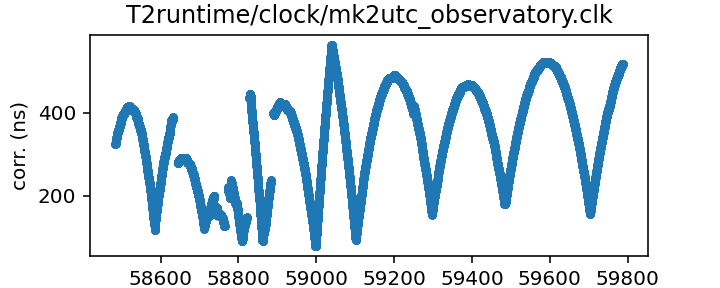
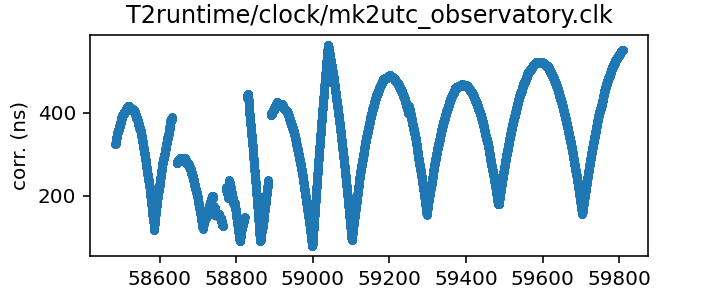
Routine gh-pages update from Github action Mon Aug 29 20:35:53 UTC 2022

diff --git a/status.md b/status.md
@@ -13,17 +13,17 @@ name of each clock file links to a page with more details.
 
 | Name | File | Corrections start | Corrections end | Last check date | Last check result 
 |:--- |:--- | --- | --- | --- |:--- 
-| [GPS to UTC](T2runtime/clock/gps2utc.clk.html) | `T2runtime/clock/gps2utc.clk` | 1993-01-01 MJD 48988.0 | 2022-06-29 MJD 59759.0 | 2022-08-28 | **Validation failed** 
-| [GPS to UTC (Combined Clock)](T2runtime/clock/gps2utc_cc.clk.html) | `T2runtime/clock/gps2utc_cc.clk` | 1993-01-01 MJD 48988.0 | 2022-07-29 MJD 59789.0 | 2022-08-28 | Unchanged 
-| [GPS to UTC (Corrected)](T2runtime/clock/gps2utc_c0p.clk.html) | `T2runtime/clock/gps2utc_c0p.clk` | 2010-12-29 MJD 55559.0 | 2022-06-29 MJD 59759.0 | 2022-08-28 | **Validation failed** 
-| [GBT](tempo/clock/time_gbt.dat.html) | `tempo/clock/time_gbt.dat` | 2000-12-31 MJD 51909.5 | 2022-07-31 MJD 59791.5 | 2022-08-28 | **Validation failed** 
+| [GPS to UTC](T2runtime/clock/gps2utc.clk.html) | `T2runtime/clock/gps2utc.clk` | 1993-01-01 MJD 48988.0 | 2022-06-29 MJD 59759.0 | 2022-08-29 | **Validation failed** 
+| [GPS to UTC (Combined Clock)](T2runtime/clock/gps2utc_cc.clk.html) | `T2runtime/clock/gps2utc_cc.clk` | 1993-01-01 MJD 48988.0 | 2022-07-29 MJD 59789.0 | 2022-08-29 | Unchanged 
+| [GPS to UTC (Corrected)](T2runtime/clock/gps2utc_c0p.clk.html) | `T2runtime/clock/gps2utc_c0p.clk` | 2010-12-29 MJD 55559.0 | 2022-06-29 MJD 59759.0 | 2022-08-29 | **Validation failed** 
+| [GBT](tempo/clock/time_gbt.dat.html) | `tempo/clock/time_gbt.dat` | 2000-12-31 MJD 51909.5 | 2022-07-31 MJD 59791.5 | 2022-08-29 | **Validation failed** 
 | [GBT (TEMPO2 converted from TEMPO)](T2runtime/clock/gbt2gps.clk.html) | `T2runtime/clock/gbt2gps.clk` | 2000-12-31 MJD 51909.5 | 2022-07-31 MJD 59791.5 | 2022-08-01 | Updated 
 | [Jodrell Bank](T2runtime/clock/jb2gps.clk.html) | `T2runtime/clock/jb2gps.clk` | 2006-10-13 MJD 54021.4 | 2021-11-03 MJD 59521.0 | 2022-08-24 | Unchanged 
 | [Jodrell Bank Roach](T2runtime/clock/jbroach2jb.clk.html) | `T2runtime/clock/jbroach2jb.clk` | 2006-10-13 MJD 54021.4 | 2018-03-20 MJD 58197.6 | 2022-08-24 | Unchanged 
 | [Jodrell Bank DFB](T2runtime/clock/jbdfb2jb.clk.html) | `T2runtime/clock/jbdfb2jb.clk` | 2006-10-13 MJD 54021.4 | 2017-05-11 MJD 57884.0 | 2022-08-24 | Unchanged 
-| [Meerkat (observatory)](T2runtime/clock/mk2utc_observatory.clk.html) | `T2runtime/clock/mk2utc_observatory.clk` | 2019-01-01 MJD 58484.0 | 2022-07-26 MJD 59787.0 | 2022-08-22 | Unchanged 
-| [Leap seconds](tempo/clock/leap.sec.html) | `tempo/clock/leap.sec` | 1972-07-01 MJD 41499.0 | 2017-01-01 MJD 57754.0 | 2022-08-28 | Unchanged 
-| [UT1 table](tempo/clock/ut1.dat.html) | `tempo/clock/ut1.dat` | 1973-01-02 MJD 41684.0 | 2023-09-02 MJD 60189.0 | 2022-08-28 | Unchanged 
+| [Meerkat (observatory)](T2runtime/clock/mk2utc_observatory.clk.html) | `T2runtime/clock/mk2utc_observatory.clk` | 2019-01-01 MJD 58484.0 | 2022-08-17 MJD 59809.0 | 2022-08-29 | Updated 
+| [Leap seconds](tempo/clock/leap.sec.html) | `tempo/clock/leap.sec` | 1972-07-01 MJD 41499.0 | 2017-01-01 MJD 57754.0 | 2022-08-29 | Unchanged 
+| [UT1 table](tempo/clock/ut1.dat.html) | `tempo/clock/ut1.dat` | 1973-01-02 MJD 41684.0 | 2023-09-02 MJD 60189.0 | 2022-08-29 | Unchanged 
 
 
 
@@ -64,7 +64,7 @@ name of each clock file links to a page with more details.
 | Name | File | Corrections start | Corrections end | Last check date | Last check result 
 |:--- |:--- | --- | --- | --- |:--- 
 | [GPS to UTC (TEMPO2)](T2runtime/clock/gps2utc_tempo2.clk.html) | `T2runtime/clock/gps2utc_tempo2.clk` | 1996-03-27 MJD 50169.0 | 2020-10-27 MJD 59149.0 | 2022-08-25 | Unchanged 
-| [GBT (TEMPO2)](T2runtime/clock/gbt2gps_tempo2.clk.html) | `T2runtime/clock/gbt2gps_tempo2.clk` | 2000-12-31 MJD 51909.5 | 2020-02-25 MJD 58904.5 | 2022-08-22 | Unchanged 
+| [GBT (TEMPO2)](T2runtime/clock/gbt2gps_tempo2.clk.html) | `T2runtime/clock/gbt2gps_tempo2.clk` | 2000-12-31 MJD 51909.5 | 2020-02-25 MJD 58904.5 | 2022-08-29 | Unchanged 
 | [Jodrell Bank (TEMPO)](tempo/clock/time_jb.dat.html) | `tempo/clock/time_jb.dat` | 2006-10-13 MJD 54021.4 | 2019-05-13 MJD 58616.2 | 2022-08-25 | Unchanged 
 | [VLA](tempo/clock/time_vla.dat.html) | `tempo/clock/time_vla.dat` | 1990-10-27 MJD 48191.2 | 2021-03-07 MJD 59280.5 | 2022-08-25 | **Failed to download** 
 | [VLA (TEMPO2)](T2runtime/clock/vla2gps.clk.html) | `T2runtime/clock/vla2gps.clk` | 2015-02-01 MJD 57054.6 | 2021-03-07 MJD 59280.5 | 2022-08-24 | Unchanged 

diff --git a/T2runtime/clock/gps2utc_c0p.clk.md b/T2runtime/clock/gps2utc_c0p.clk.md
@@ -30,12 +30,11 @@ about the BIPM's published corrections, contact <tai@bipm.org>.
 | Clock file start | 2010-12-29 MJD 55559.0 |
 | Clock file end | 2022-06-29 MJD 59759.0 |
 | Update interval (days) | 1 |
-| Last update attempt | 2022-08-28 |
+| Last update attempt | 2022-08-29 |
 | Last update result | Validation failed |
 
 Log entries from the last few update attempts:
 ```
-2022-08-19 20:35:01.749 - Validation failed: New version of T2runtime/clock/gps2utc_c0p.clk clock corrections differ from old version where they overlap in 1 places
 2022-08-20 20:33:20.418 - Validation failed: New version of T2runtime/clock/gps2utc_c0p.clk clock corrections differ from old version where they overlap in 1 places
 2022-08-21 20:33:33.504 - Validation failed: New version of T2runtime/clock/gps2utc_c0p.clk clock corrections differ from old version where they overlap in 1 places
 2022-08-22 20:33:34.014 - Validation failed: New version of T2runtime/clock/gps2utc_c0p.clk clock corrections differ from old version where they overlap in 1 places
@@ -45,6 +44,7 @@ Log entries from the last few update attempts:
 2022-08-26 20:34:36.950 - Validation failed: New version of T2runtime/clock/gps2utc_c0p.clk clock corrections differ from old version where they overlap in 1 places
 2022-08-27 20:33:44.136 - Validation failed: New version of T2runtime/clock/gps2utc_c0p.clk clock corrections differ from old version where they overlap in 1 places
 2022-08-28 20:34:12.081 - Validation failed: New version of T2runtime/clock/gps2utc_c0p.clk clock corrections differ from old version where they overlap in 1 places
+2022-08-29 20:35:23.143 - Validation failed: New version of T2runtime/clock/gps2utc_c0p.clk clock corrections differ from old version where they overlap in 1 places
 ```
 [Full log](https://raw.githubusercontent.com/ipta/pulsar-clock-corrections/main/log/T2runtime/clock/gps2utc_c0p.clk.log)
 

diff --git a/T2runtime/clock/gps2utc.clk.md b/T2runtime/clock/gps2utc.clk.md
@@ -32,12 +32,11 @@ about the BIPM's published corrections, contact <tai@bipm.org>.
 | Clock file start | 1993-01-01 MJD 48988.0 |
 | Clock file end | 2022-06-29 MJD 59759.0 |
 | Update interval (days) | 1 |
-| Last update attempt | 2022-08-28 |
+| Last update attempt | 2022-08-29 |
 | Last update result | Validation failed |
 
 Log entries from the last few update attempts:
 ```
-2022-08-19 20:35:01.671 - Validation failed: New version of T2runtime/clock/gps2utc.clk clock corrections differ from old version where they overlap in 1 places
 2022-08-20 20:33:20.357 - Validation failed: New version of T2runtime/clock/gps2utc.clk clock corrections differ from old version where they overlap in 1 places
 2022-08-21 20:33:33.441 - Validation failed: New version of T2runtime/clock/gps2utc.clk clock corrections differ from old version where they overlap in 1 places
 2022-08-22 20:33:33.953 - Validation failed: New version of T2runtime/clock/gps2utc.clk clock corrections differ from old version where they overlap in 1 places
@@ -47,6 +46,7 @@ Log entries from the last few update attempts:
 2022-08-26 20:34:36.865 - Validation failed: New version of T2runtime/clock/gps2utc.clk clock corrections differ from old version where they overlap in 1 places
 2022-08-27 20:33:44.075 - Validation failed: New version of T2runtime/clock/gps2utc.clk clock corrections differ from old version where they overlap in 1 places
 2022-08-28 20:34:12.018 - Validation failed: New version of T2runtime/clock/gps2utc.clk clock corrections differ from old version where they overlap in 1 places
+2022-08-29 20:35:23.082 - Validation failed: New version of T2runtime/clock/gps2utc.clk clock corrections differ from old version where they overlap in 1 places
 ```
 [Full log](https://raw.githubusercontent.com/ipta/pulsar-clock-corrections/main/log/T2runtime/clock/gps2utc.clk.log)
 

diff --git a/tempo/clock/time_gbt.dat.md b/tempo/clock/time_gbt.dat.md
@@ -20,12 +20,11 @@ If questions arise, contact Ryan S. Lynch <rlynch@nrao.edu>.
 | Clock file start | 2000-12-31 MJD 51909.5 |
 | Clock file end | 2022-07-31 MJD 59791.5 |
 | Update interval (days) | 1 |
-| Last update attempt | 2022-08-28 |
+| Last update attempt | 2022-08-29 |
 | Last update result | Validation failed |
 
 Log entries from the last few update attempts:
 ```
-2022-08-19 20:35:02.458 - Validation failed: New version of tempo/clock/time_gbt.dat clock corrections differ from old version where they overlap in 1 places
 2022-08-20 20:33:20.858 - Validation failed: New version of tempo/clock/time_gbt.dat clock corrections differ from old version where they overlap in 1 places
 2022-08-21 20:33:33.863 - Validation failed: New version of tempo/clock/time_gbt.dat clock corrections differ from old version where they overlap in 1 places
 2022-08-22 20:33:34.392 - Validation failed: New version of tempo/clock/time_gbt.dat clock corrections differ from old version where they overlap in 1 places
@@ -35,6 +34,7 @@ Log entries from the last few update attempts:
 2022-08-26 20:34:37.350 - Validation failed: New version of tempo/clock/time_gbt.dat clock corrections differ from old version where they overlap in 1 places
 2022-08-27 20:33:44.835 - Validation failed: New version of tempo/clock/time_gbt.dat clock corrections differ from old version where they overlap in 1 places
 2022-08-28 20:34:12.413 - Validation failed: New version of tempo/clock/time_gbt.dat clock corrections differ from old version where they overlap in 1 places
+2022-08-29 20:35:23.989 - Validation failed: New version of tempo/clock/time_gbt.dat clock corrections differ from old version where they overlap in 1 places
 ```
 [Full log](https://raw.githubusercontent.com/ipta/pulsar-clock-corrections/main/log/tempo/clock/time_gbt.dat.log)
 

diff --git a/T2runtime/clock/mk2utc_observatory.clk.md b/T2runtime/clock/mk2utc_observatory.clk.md
@@ -19,14 +19,13 @@ If questions arise, contact Ryan Shannon <rshannon@swin.edu.au>
 | Format | tempo2 |
 | Bogus last correction | False |
 | Clock file start | 2019-01-01 MJD 58484.0 |
-| Clock file end | 2022-07-26 MJD 59787.0 |
+| Clock file end | 2022-08-17 MJD 59809.0 |
 | Update interval (days) | 7 |
-| Last update attempt | 2022-08-22 |
-| Last update result | Unchanged |
+| Last update attempt | 2022-08-29 |
+| Last update result | Updated |
 
 Log entries from the last few update attempts:
 ```
-2022-06-23 14:15:50.040 - Updated
 2022-06-30 20:34:44.803 - Failed to download: The read operation timed out
 2022-07-04 14:50:38.399 - Unchanged
 2022-07-11 20:34:36.789 - Updated
@@ -36,6 +35,7 @@ Log entries from the last few update attempts:
 2022-08-08 20:35:15.765 - Updated
 2022-08-15 20:34:21.731 - Failed to download: The read operation timed out
 2022-08-22 20:33:37.370 - Unchanged
+2022-08-29 20:35:28.170 - Updated
 ```
 [Full log](https://raw.githubusercontent.com/ipta/pulsar-clock-corrections/main/log/T2runtime/clock/mk2utc_observatory.clk.log)
 
@@ -44,7 +44,7 @@ Leading comments from clock file:
     # Tie of Karoo Telescope Time to UTC
     # This file is from the KTT-GNSS sensor, and does not include circular-T
     # MJD = (SensorTime(us)/86400e6)+40587    15-minute snapshots
-    # Created at unix time 1659513538.403479 from KTT mySQL database.
+    # Created at unix time 1661410454.885244 from KTT mySQL database.
     #
     # MJD (days)   KTT-UTC (seconds)
     #------------------------------------------------------

diff --git a/T2runtime/clock/gbt2gps_tempo2.clk.md b/T2runtime/clock/gbt2gps_tempo2.clk.md
@@ -16,12 +16,11 @@ This file is pulled from the TEMPO2 repository and may not be fully up-to-date.
 | Clock file start | 2000-12-31 MJD 51909.5 |
 | Clock file end | 2020-02-25 MJD 58904.5 |
 | Update interval (days) | 7 |
-| Last update attempt | 2022-08-22 |
+| Last update attempt | 2022-08-29 |
 | Last update result | Unchanged |
 
 Log entries from the last few update attempts:
 ```
-2022-06-29 20:36:06.509 - Unchanged
 2022-07-04 14:55:30.980 - Unchanged
 2022-07-04 14:56:51.164 - Unchanged
 2022-07-11 20:34:33.244 - Unchanged
@@ -31,6 +30,7 @@ Log entries from the last few update attempts:
 2022-08-08 20:35:11.864 - Unchanged
 2022-08-15 20:34:10.815 - Unchanged
 2022-08-22 20:33:34.633 - Unchanged
+2022-08-29 20:35:24.374 - Unchanged
 ```
 [Full log](https://raw.githubusercontent.com/ipta/pulsar-clock-corrections/main/log/T2runtime/clock/gbt2gps_tempo2.clk.log)
 

diff --git a/T2runtime/clock/gps2utc_cc.clk.md b/T2runtime/clock/gps2utc_cc.clk.md
@@ -29,12 +29,11 @@ about the BIPM's published corrections, contact <tai@bipm.org>.
 | Clock file start | 1993-01-01 MJD 48988.0 |
 | Clock file end | 2022-07-29 MJD 59789.0 |
 | Update interval (days) | 1 |
-| Last update attempt | 2022-08-28 |
+| Last update attempt | 2022-08-29 |
 | Last update result | Unchanged |
 
 Log entries from the last few update attempts:
 ```
-2022-08-19 20:35:01.711 - Unchanged
 2022-08-20 20:33:20.388 - Unchanged
 2022-08-21 20:33:33.473 - Unchanged
 2022-08-22 20:33:33.984 - Unchanged
@@ -44,6 +43,7 @@ Log entries from the last few update attempts:
 2022-08-26 20:34:36.914 - Unchanged
 2022-08-27 20:33:44.107 - Unchanged
 2022-08-28 20:34:12.051 - Unchanged
+2022-08-29 20:35:23.114 - Unchanged
 ```
 [Full log](https://raw.githubusercontent.com/ipta/pulsar-clock-corrections/main/log/T2runtime/clock/gps2utc_cc.clk.log)
 

diff --git a/tempo/clock/leap.sec.md b/tempo/clock/leap.sec.md
@@ -21,12 +21,11 @@ If there are any questions, contact Anne Archibald
 | File start | 1972-07-01 MJD 41499.0 |
 | File end | 2017-01-01 MJD 57754.0 |
 | Update interval (days) | 0 |
-| Last update attempt | 2022-08-28 |
+| Last update attempt | 2022-08-29 |
 | Last update result | Unchanged |
 
 Log entries from the last few update attempts:
 ```
-2022-08-19 20:35:02.510 - Unchanged
 2022-08-20 20:33:20.894 - Unchanged
 2022-08-21 20:33:33.899 - Unchanged
 2022-08-22 20:33:37.387 - Unchanged
@@ -36,5 +35,6 @@ Log entries from the last few update attempts:
 2022-08-26 20:34:37.391 - Unchanged
 2022-08-27 20:33:44.872 - Unchanged
 2022-08-28 20:34:12.447 - Unchanged
+2022-08-29 20:35:28.186 - Unchanged
 ```
 [Full log](https://raw.githubusercontent.com/ipta/pulsar-clock-corrections/main/log/tempo/clock/leap.sec.log)

diff --git a/tempo/clock/ut1.dat.md b/tempo/clock/ut1.dat.md
@@ -30,12 +30,11 @@ If there are any questions, contact Anne Archibald
 | File start | 1973-01-02 MJD 41684.0 |
 | File end | 2023-09-02 MJD 60189.0 |
 | Update interval (days) | 0 |
-| Last update attempt | 2022-08-28 |
+| Last update attempt | 2022-08-29 |
 | Last update result | Unchanged |
 
 Log entries from the last few update attempts:
 ```
-2022-08-19 20:35:12.141 - Unchanged
 2022-08-20 20:33:28.408 - Unchanged
 2022-08-21 20:33:53.964 - Unchanged
 2022-08-22 20:33:44.563 - Unchanged
@@ -45,5 +44,6 @@ Log entries from the last few update attempts:
 2022-08-26 20:34:44.744 - Unchanged
 2022-08-27 20:33:54.860 - Unchanged
 2022-08-28 20:34:19.991 - Unchanged
+2022-08-29 20:35:38.931 - Unchanged
 ```
 [Full log](https://raw.githubusercontent.com/ipta/pulsar-clock-corrections/main/log/tempo/clock/ut1.dat.log)
